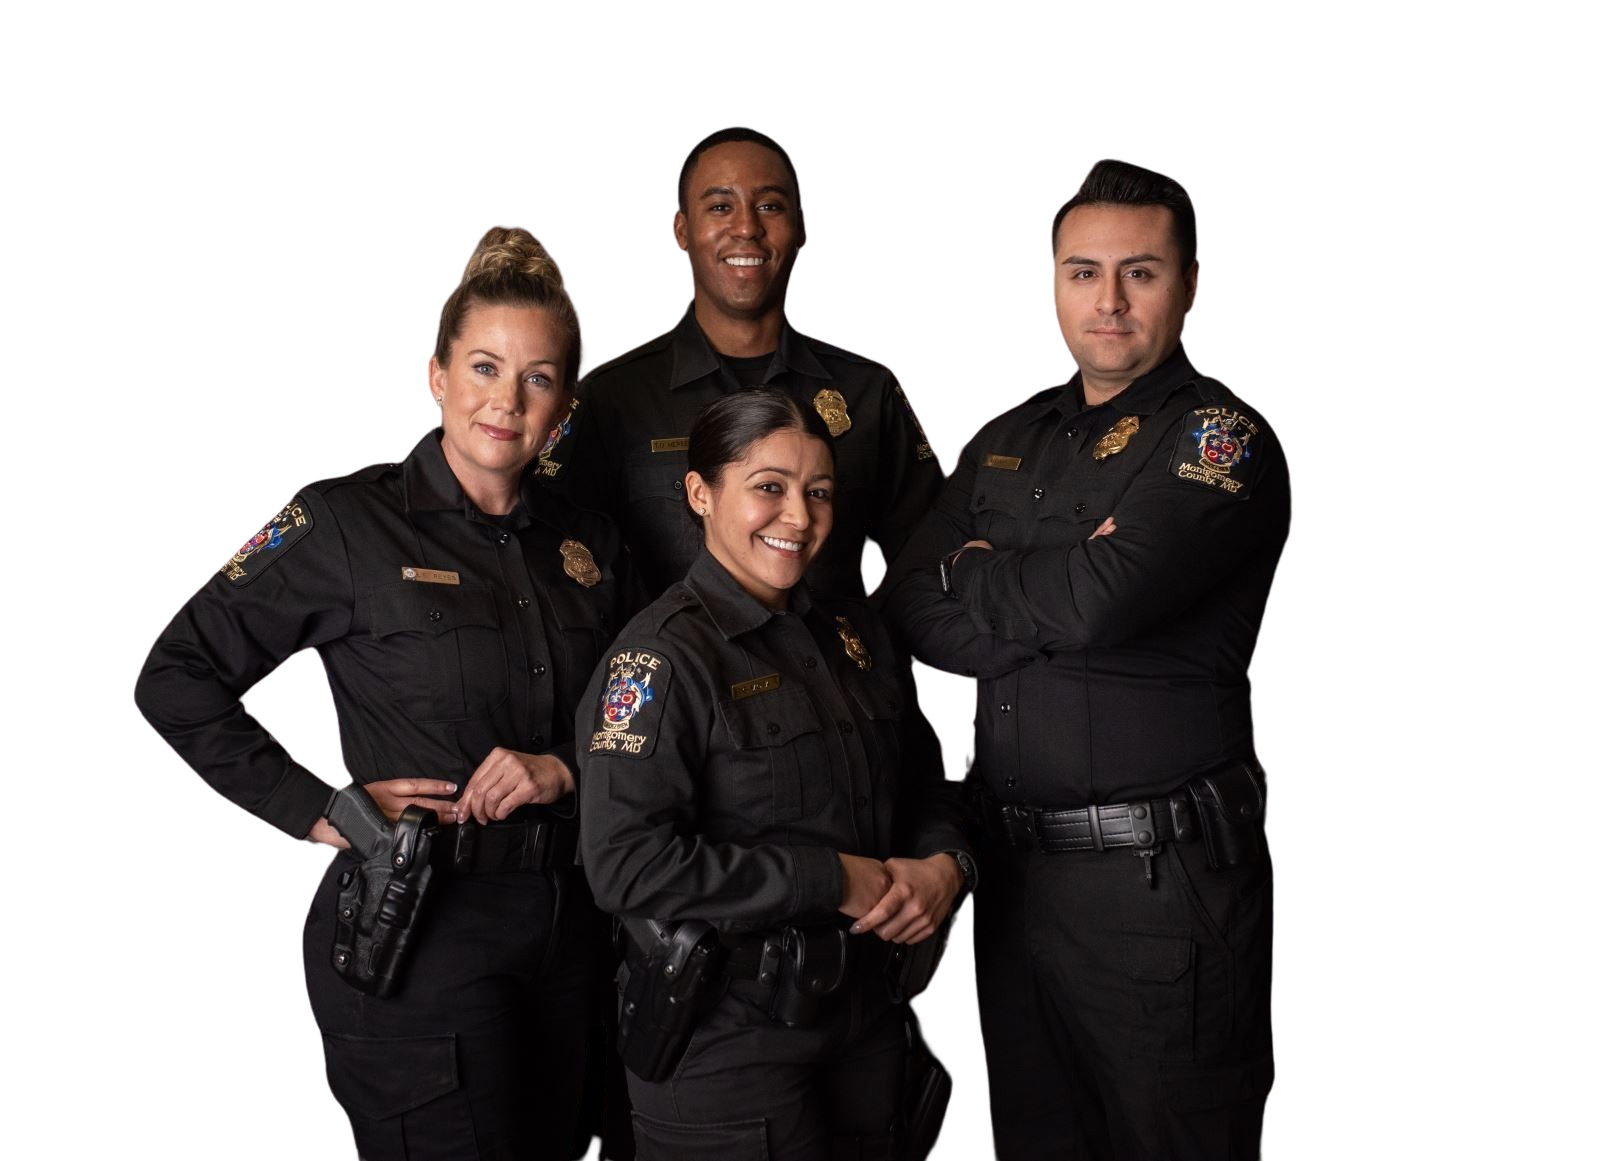
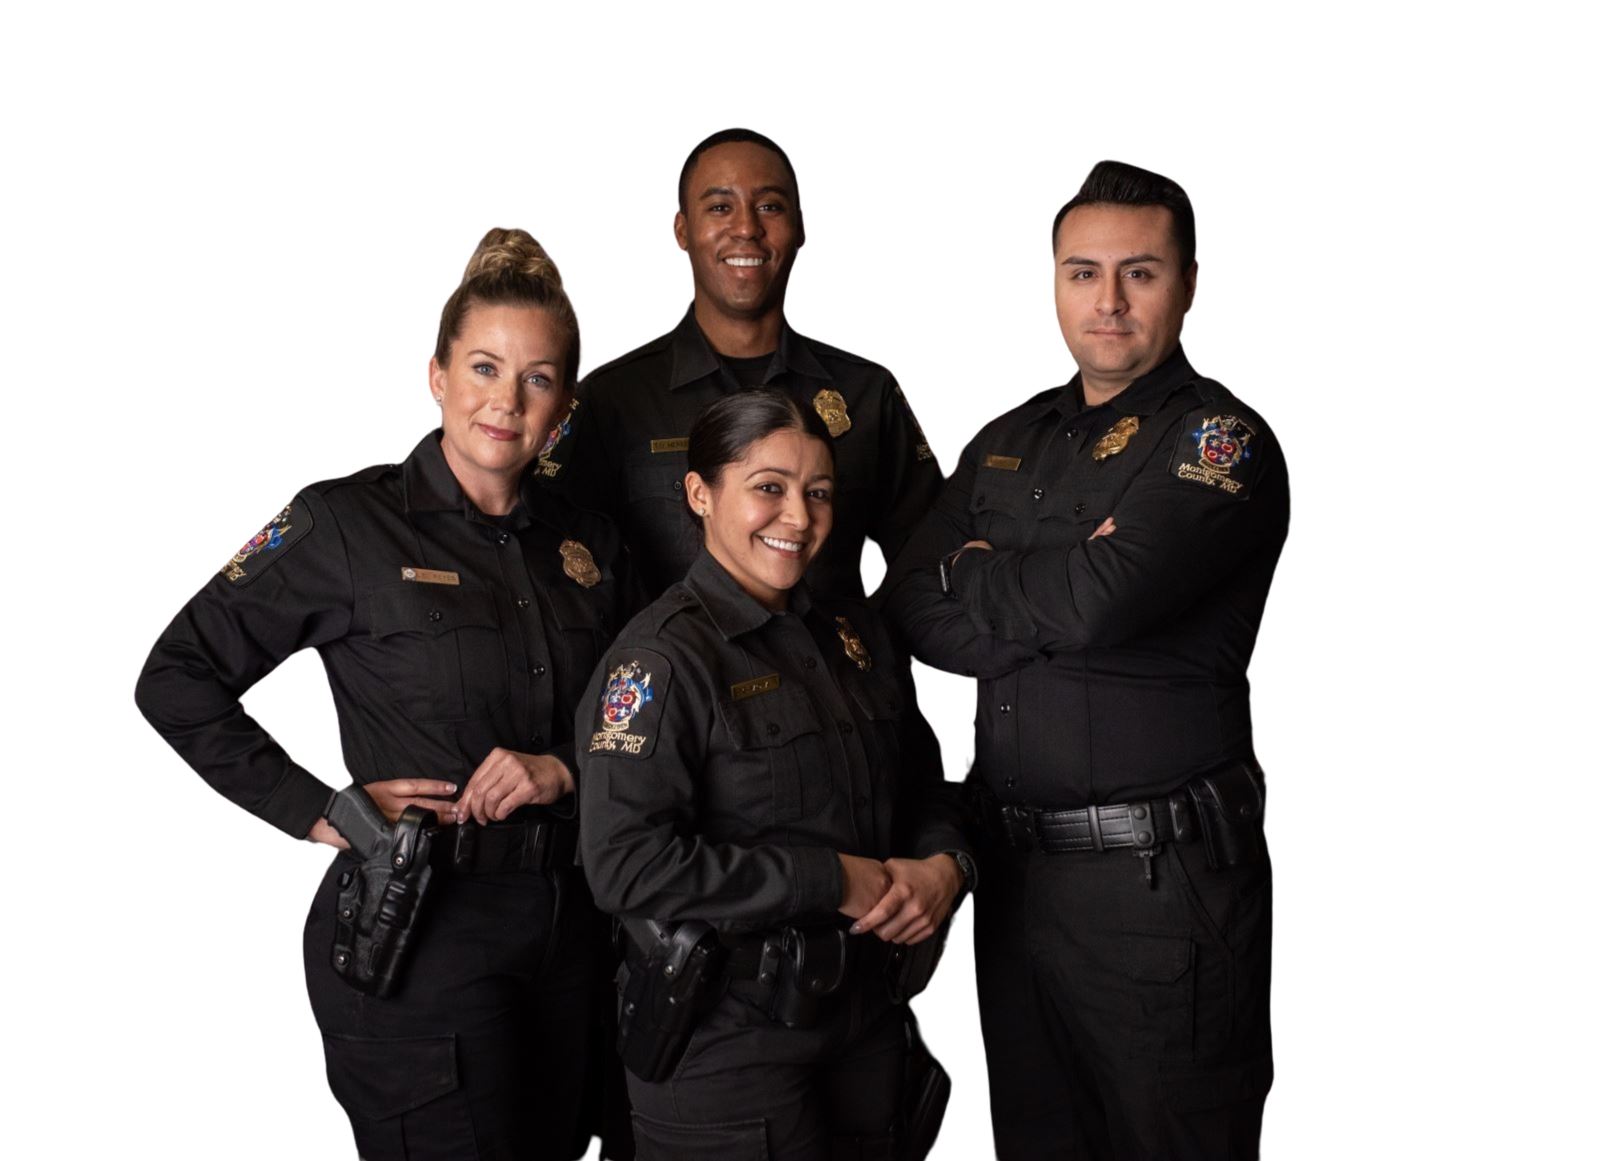
Home

diff --git a/index.html b/index.html
@@ -73,40 +73,11 @@
         <!-- header-bottom-area End -->
 
     </div>
-    <!-- header-area end -->
-
-    <!-- Hero Slider start -->
-    <!-- <div id="carouselExampleIndicators" class="carousel slide" data-ride="carousel">
-        <ol class="carousel-indicators">
-          <li data-target="#carouselExampleIndicators" data-slide-to="0" class="active"></li>
-          <li data-target="#carouselExampleIndicators" data-slide-to="1"></li>
-          <li data-target="#carouselExampleIndicators" data-slide-to="2"></li>
-        </ol>
-        <div class="carousel-inner">
-          <div class="carousel-item active">
-            <img class="d-block w-100" src="/image/banner3.jpg" alt="First slide" style="height: 700px;" >
-          </div>
-          <div class="carousel-item">
-            <img class="d-block w-100" src="/image/banner2.jpg" alt="Second slide" style="height: 700px;">
-          </div>
-          <div class="carousel-item">
-            <img class="d-block w-100" src="/image/wm2.jpg" alt="Third slide" style="height: 700px;">
-          </div>
-        </div>
-        <a class="carousel-control-prev" href="#carouselExampleIndicators" role="button" data-slide="prev">
-          <span class="carousel-control-prev-icon" aria-hidden="true"></span>
-          <span class="sr-only">Previous</span>
-        </a>
-        <a class="carousel-control-next" href="#carouselExampleIndicators" role="button" data-slide="next">
-          <span class="carousel-control-next-icon" aria-hidden="true"></span>
-          <span class="sr-only">Next</span>
-        </a>
-      </div> -->
     <!-- Hero Slider end -->
 
     <div class="banner">
         <div class="police">
-            <center><img src="/image/police.png" alt=""></center>
+            <center><img src="/image/police2.png" alt=""></center>
         </div>
         <div class="car ">
             <img src="image/car1.png" alt="">
@@ -200,7 +171,7 @@
             <div class="row align-items-center">
                 <div class="col-lg-6 col-md-6">
                     <div class="repair-service-inner">
-                        <h2>We Have 5 Years of Experience</h2>
+                        <h2><b>We Have 5 Years of Experience</b></h2>
                         <h3>Anything amazing about us</h3>
                         <p>Baaz Patrol has successfully Experience in private security industry. Due to its
                             professionalism, hard work and high ethical standard, Orion has been able to
@@ -220,7 +191,7 @@
                 </div>
                 <div class="col-lg-6 col-md-6">
                     <div class="repair-image pt--30">
-                        <img src="/our Services image/A1.jpg" alt="" class="img12">
+                        <img src="/our Services image/@.jpeg" alt="" class="img12">
                     </div>
                 </div>
             </div>
@@ -311,9 +282,9 @@
         <div class="container">
             <h1 class="our1">Why Choose Us?</h1>
 
-            <div class="para">Integrity, accountability, excellence, innovation, and customer-centricity form
+            <div class="para"><p>Integrity, accountability, excellence, innovation, and customer-centricity form
                 the bedrock of our beliefs. These core values guide every aspect of our business, ensuring
-                unwavering commitment to quality and service excellence.
+                unwavering commitment to quality and service excellence.</p>
 
             </div>
         </div>
@@ -341,7 +312,7 @@
                             <img src="/our Services image/Untitled-design-5.png" alt="">
                             <h4>Advanced
                                 Technology</h4>
-                            <i class="icofont-question"></i>
+                            <!-- <i class="icofont-question"></i> -->
                         </div>
                         <p>Bazz Security pioneers cutting-edge tech, delivering unparalleled solutions
                             for
@@ -357,11 +328,10 @@
                             <img src="/our Services image/Untitled-design-6.png" alt="">
                             <h4>24/7
                                 Support</h4>
-                            <i class="icofont-question"></i>
+                            <!-- <i class="icofont-question"></i> -->
                         </div>
-                        <p>Bazz Security offers 24/7 support, ensuring your safety around the clock.
-                            Trust
-                            us for reliable protection and assistance whenever you need it.</p>
+                        <p>Count on Bazz Security for 24/7 support, ensuring your safety day and night. Trust us for
+                            reliable protection and assistance whenever you need it. Your security is our priority.</p>
                     </div>
                     <!-- single-faq Start -->
                 </div>
@@ -372,7 +342,7 @@
                             <img src="/our Services image/Untitled-design-7.png" alt="">
                             <h4>Certified
                                 Security Guards</h4>
-                            <i class="icofont-question"></i>
+                            <!-- <i class="icofont-question"></i> -->
                         </div>
                         <p>Bazz Security offers certified security guards for comprehensive protection.
                             Trust our trained professionals for your safety needs. Contact us today.</p>
@@ -385,7 +355,7 @@
                         <div class="title-content">
                             <img src="/our Services image/1.png" alt="">
                             <h3>Special Events Security</h3>
-                            <i class="icofont-question"></i>
+                            <!-- <i class="icofont-question"></i> -->
                         </div>
                         <p>Numerous unique events, from festivals and concerts to business gatherings
                             and
@@ -401,7 +371,7 @@
                         <div class="title-content">
                             <img src="/our Services image/2.png" alt="">
                             <h3>Protecting the Future</h3>
-                            <i class="icofont-question"></i>
+                            <!-- <i class="icofont-question"></i> -->
                         </div>
                         <p>In order to serve the public and shape society, institutions and
                             organisations
@@ -590,24 +560,23 @@
 
 
     <!-- Something New Aera Start -->
-    <!-- <div class="something-new-area something-new-bg overly-bg-black section-ptb">
-            <div class="container">
-                <div class="row">
-                    <div class="col-lg-12">
-                        <div class="something-new-inner text-center text-white">
-                            <h2>Now Time For Something New</h2>
-                            <p>It is a long established fact that a reader will be distracted by the
-                                readable content of
-                                a page when looking at its layout. </p>
-                            <div class="contact-us-button">
-                                <a href="#" class="default-btn border-radius">Know More</a>
-                                <a href="#" class="primary-btn border-radius">Contact Us</a>
-                            </div>
+    <div class="something-new-area something-new-bg overly-bg-black section-ptb">
+        <div class="container">
+            <div class="row">
+                <div class="col-lg-12">
+                    <div class="something-new-inner text-center text-white">
+                        <h2>Join Our volunteer Subscribe Our Newsletter.</h2>
+                        <p>Join us! Be a volunteer, support our cause, and stay informed. Subscribe to our newsletter
+                            for updates and make a difference in just a click. Join today </p>
+                        <div class="contact-us-button">
+                            <a href="/about.html" class="default-btn border-radius">Know More</a>
+                            <a href="/contact.html" class="primary-btn border-radius">Contact Us</a>
                         </div>
                     </div>
                 </div>
             </div>
-        </div> -->
+        </div>
+    </div>
     <!-- Something New Aera End -->
     <br>
     <!-- Footer Area Start -->
@@ -642,7 +611,7 @@
                                 <li><a href="#">Contact</a></li>
                                 <li><a href="#">Privacy Policy</a></li>
                                 <li><a href="#">Terms & Condition</a></li>
-                                
+
                             </ul>
                         </div>
                     </div>

diff --git a/assets/css/style.css b/assets/css/style.css
@@ -1014,7 +1014,7 @@ textarea:-ms-input-placeholder {
 
 .primary-btn:hover {
   border: 1px solid #fb7832;
-  background: #00408e;
+  background: #f4bd3e;
   color: #ffffff;
 }
 
@@ -2138,6 +2138,8 @@ only screen and (min-width: 768px) and (max-width: 991px) {
 .repair-image.pt--30 img {
   height: 300px; 
   width: 500px;
+  margin-top: -111px;
+  border-radius: 32px;
 }
 .repair-image.pt--30 img:hover{
   height: 320px;
@@ -2877,7 +2879,7 @@ only screen and (min-width: 768px) and (max-width: 991px) {
     11. Something New Css
 ------------------------------*/
 .something-new-bg {
-  background: url(../images/bg/02.jpg);
+  background: url(/image/portrait-male-security-guard-with-radio-station.jpg);
   background-size: cover;
 }
 
@@ -3380,6 +3382,7 @@ only screen and (min-width: 768px) and (max-width: 991px) {
   color: #ffffff;
   border: 1px solid #f4bd3e;
 }
+
 
 /*-- 
     13. Your Opinion Css
@@ -4298,7 +4301,7 @@ iframe{
   display: flex;
   justify-content: center;
   gap: 60px;
-  margin: 10px;
+  margin: 25px;
   padding-bottom: 10px;
 }
 
